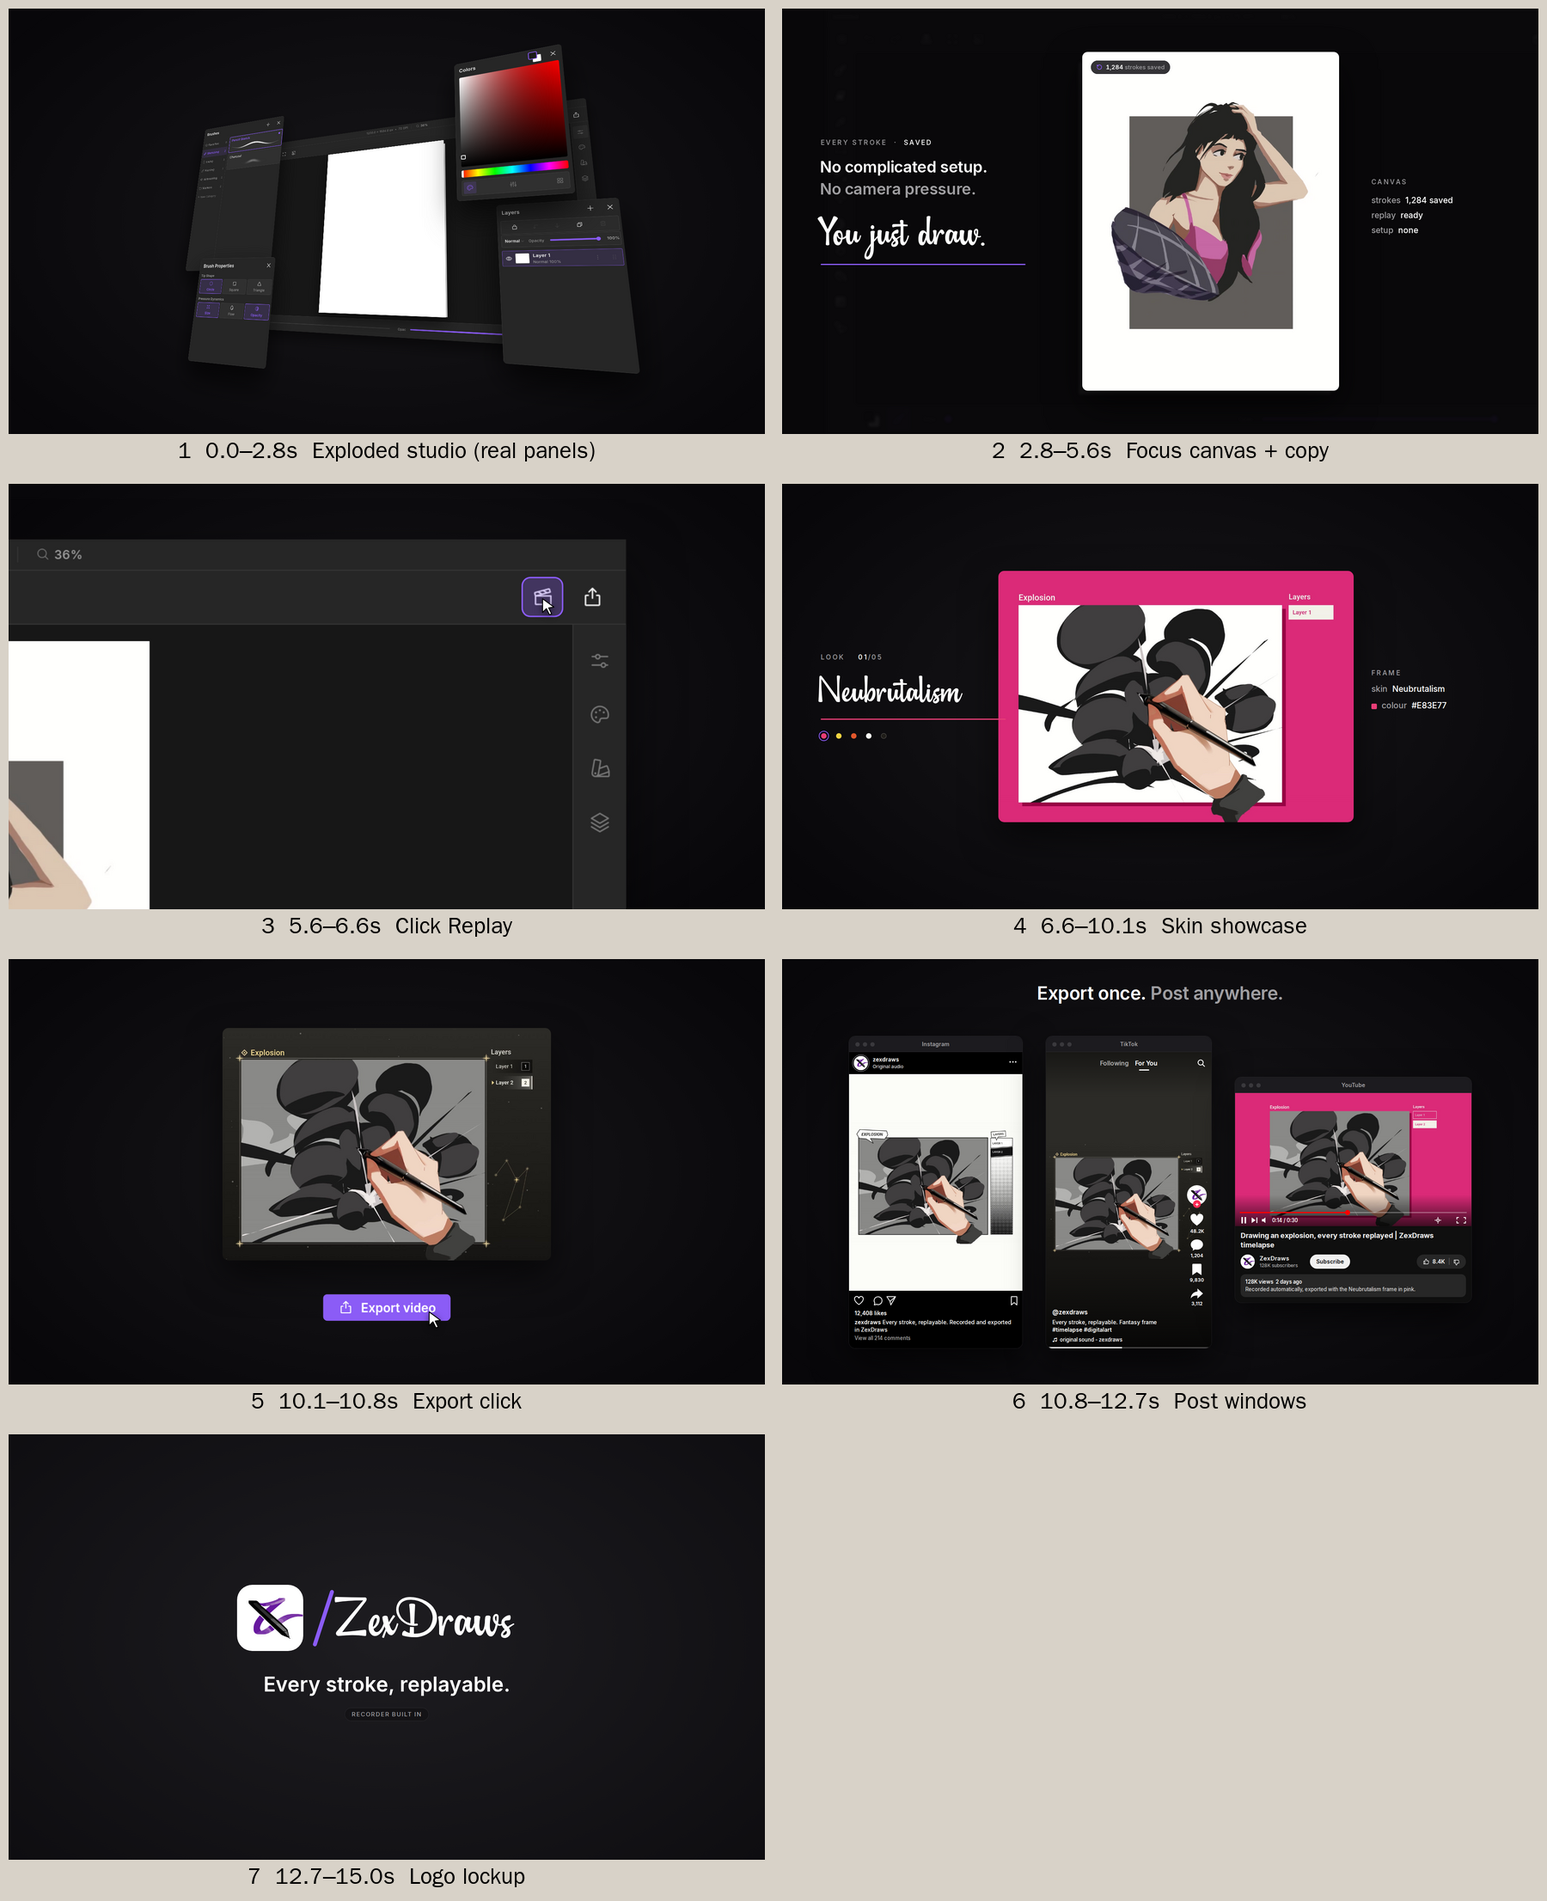
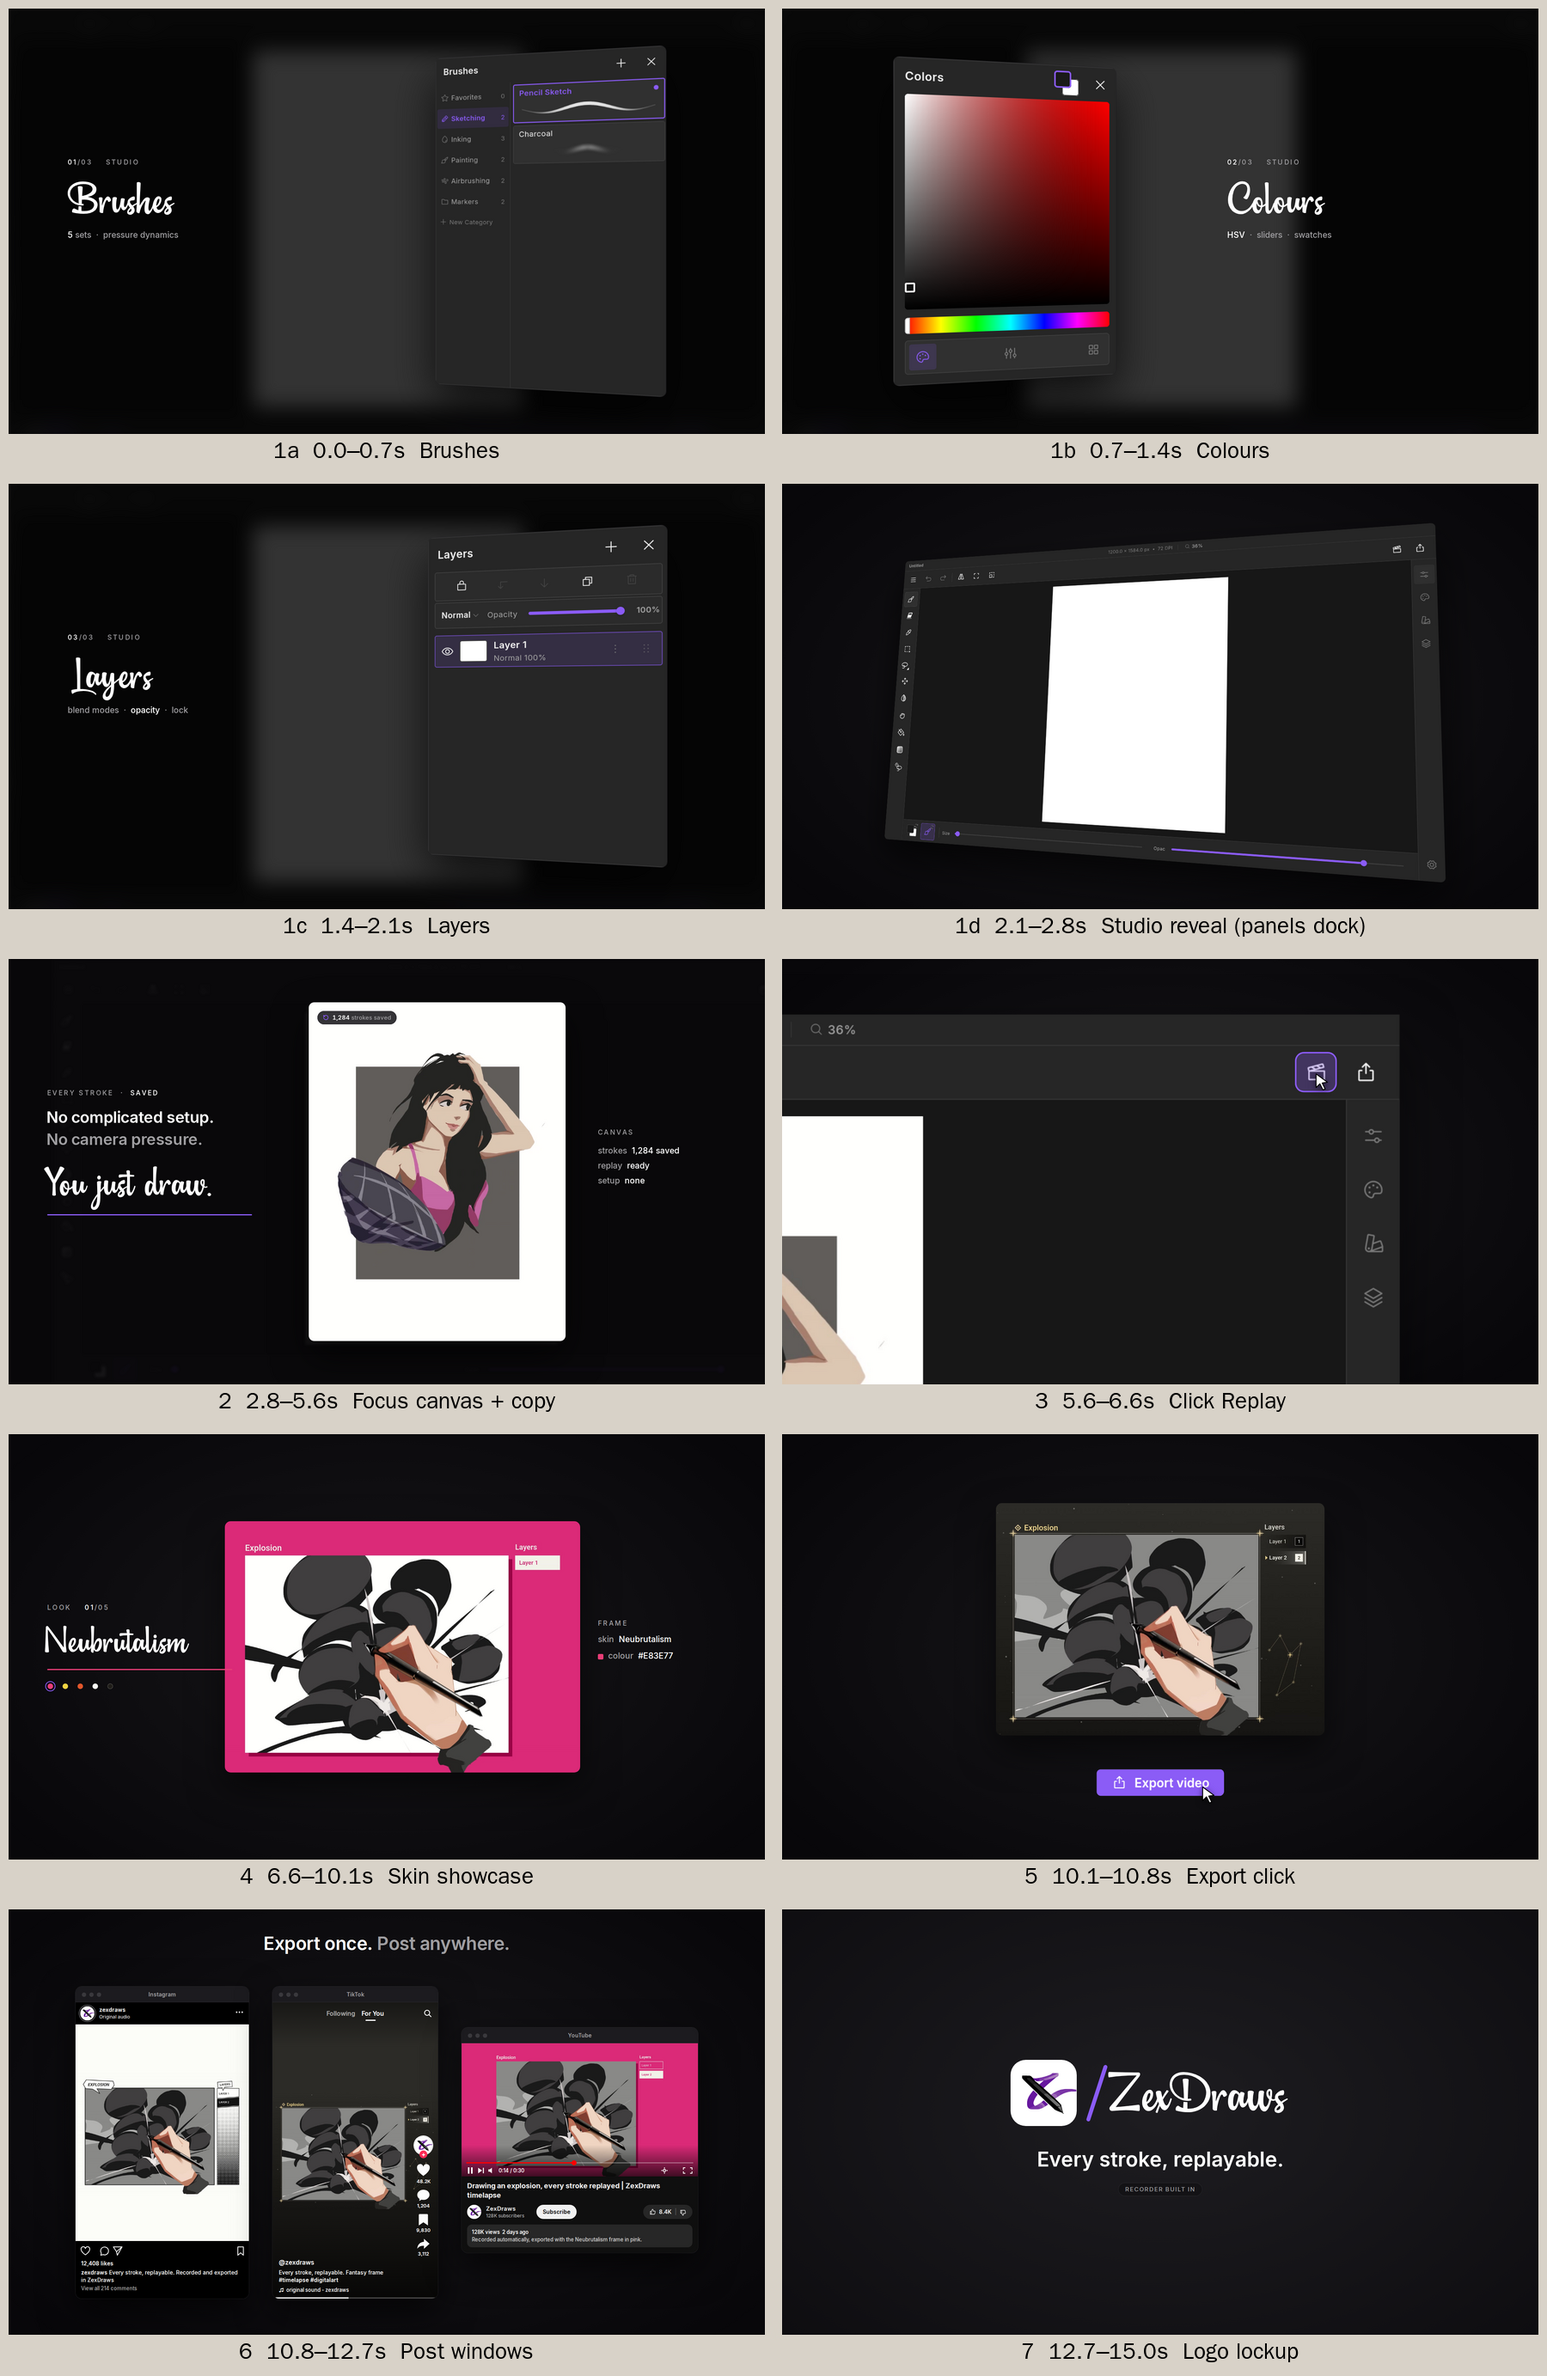
Storyboard: split the opener into Brushes / Colours / Layers cuts and a studio reveal
Claude-Session: https://claude.ai/code/session_01N6SAp883XGMwBKYGBCyKw5

diff --git a/docs/storyboard/storyboard.html b/docs/storyboard/storyboard.html
@@ -34,14 +34,15 @@ html,body { margin:0; background:var(--bg); }
 .P { box-shadow:0 60px 120px rgba(0,0,0,.7) !important; border-radius:12px; }
 </style></head><body>
 
-<!-- 1 · Exploded studio: the real Brushes, Brush Properties, Colors and Layers panels float at their own heights -->
-<div class="frame" id="f1"><div class="cam"><div class="rig" style="transform:translate(-10px,10px) scale(.5) rotateY(-20deg) rotateX(12deg) rotateZ(-3deg)">
-  <img class="L" src="../../ui/studio/clean.png" style="width:1920px;height:1080px;left:-960px;top:-540px;border-radius:14px">
-  <div class="L" style="background:#fff;left:-316px;top:-404px;width:639px;height:843px;transform:translateZ(40px)"></div>
-  <img class="L P" src="../../ui/studio/p_layers.png" style="left:560px;top:-30px;width:444px;height:626px;transform:translateZ(140px)">
-  <img class="L P" src="../../ui/studio/p_brush.png" style="left:-1010px;top:-560px;width:534px;height:804px;transform:translateZ(240px)">
-  <img class="L P" src="../../ui/studio/p_colour.png" style="left:420px;top:-620px;width:414px;height:605px;transform:translateZ(300px)">
-  <img class="L P" src="../../ui/studio/p_adjust.png" style="left:-760px;top:200px;width:414px;height:450px;transform:translateZ(380px)">
+<!-- 1a · Brushes close-up -->
+<div class="frame" id="f1a"><div class="abs" style="inset:-40px;background:url(../../ui/studio/clean.png) center/cover;filter:blur(26px) brightness(.2)"></div><div class="cam"><img class="abs" src="../../ui/studio/p_brush.png" style="left:1080px;top:111px;width:570px;height:858px;border-radius:14px;transform:rotateY(-14deg);box-shadow:0 50px 120px rgba(0,0,0,.7), 0 0 0 1px #2A292D"></div><div class="abs" style="left:150px;top:380px;width:640px;text-align:left"><div class="eyebrow"><b>01</b>/03&nbsp;&nbsp;&nbsp;&nbsp;Studio</div><div style="font:120px/150px 'Southern Beach';margin-top:6px">Brushes</div><div class="row" style="margin-top:6px"><span class="v">5</span> sets&nbsp;&nbsp;·&nbsp;&nbsp;pressure dynamics</div></div></div>
+<!-- 1b · Colors close-up -->
+<div class="frame" id="f1b"><div class="abs" style="inset:-40px;background:url(../../ui/studio/clean.png) center/cover;filter:blur(26px) brightness(.2)"></div><div class="cam"><img class="abs" src="../../ui/studio/p_colour.png" style="left:300px;top:137px;width:552px;height:806px;border-radius:14px;transform:rotateY(14deg);box-shadow:0 50px 120px rgba(0,0,0,.7), 0 0 0 1px #2A292D"></div><div class="abs" style="left:1130px;top:380px;width:640px;text-align:left"><div class="eyebrow"><b>02</b>/03&nbsp;&nbsp;&nbsp;&nbsp;Studio</div><div style="font:120px/150px 'Southern Beach';margin-top:6px">Colours</div><div class="row" style="margin-top:6px"><span class="v">HSV</span>&nbsp;&nbsp;·&nbsp;&nbsp;sliders&nbsp;&nbsp;·&nbsp;&nbsp;swatches</div></div></div>
+<!-- 1c · Layers close-up -->
+<div class="frame" id="f1c"><div class="abs" style="inset:-40px;background:url(../../ui/studio/clean.png) center/cover;filter:blur(26px) brightness(.2)"></div><div class="cam"><img class="abs" src="../../ui/studio/p_layers.png" style="left:1060px;top:122px;width:592px;height:835px;border-radius:14px;transform:rotateY(-14deg);box-shadow:0 50px 120px rgba(0,0,0,.7), 0 0 0 1px #2A292D"></div><div class="abs" style="left:150px;top:380px;width:640px;text-align:left"><div class="eyebrow"><b>03</b>/03&nbsp;&nbsp;&nbsp;&nbsp;Studio</div><div style="font:120px/150px 'Southern Beach';margin-top:6px">Layers</div><div class="row" style="margin-top:6px">blend modes&nbsp;&nbsp;·&nbsp;&nbsp;<span class="v">opacity</span>&nbsp;&nbsp;·&nbsp;&nbsp;lock</div></div></div>
+<!-- 1d · Reveal: the clean studio, upright, blank page -->
+<div class="frame" id="f1d"><div class="cam"><div class="rig" style="transform:translateX(-70px) scale(.74) rotateY(-14deg) rotateX(6deg)">
+  <img class="L" src="../../ui/studio/clean.png" style="width:1920px;height:1080px;left:-960px;top:-540px;border-radius:14px;box-shadow:0 60px 140px rgba(0,0,0,.7)">
 </div></div></div>
 
 <!-- 2 · Focus on the canvas: same frame language as the skin showcase (eyebrow → statement → script → tokens) -->

diff --git a/docs/shotlist-studio.md b/docs/shotlist-studio.md
@@ -7,7 +7,10 @@ Ends on the lockup (no loop back, no infinite card floor).
 
 | # | Beats | Time | Shot | Motion | Sound |
 |---|---|---|---|---|---|
-| 1 | 0–6 | 0.0–2.8 | **Exploded studio.** The real studio stands near-upright, angled about 20° to the side (not lying flat), with a blank white page. In front of it float the real **Brushes, Brush Properties, Colors and Layers** panels (captured from the app), each at its own height and spread over the workspace. | Opens already exploded. On beats 1–4 each panel drops and folds into its button on the right rail, one per beat. The camera levels out on beat 5. | Low hit at 0, a click per panel, swish on the untilt |
+| 1a | 0–1.5 | 0.0–0.7 | **Brushes.** The real Brushes panel, large and turned slightly, over the blurred studio. Left: "01/03 Studio" → *Brushes* (script) → "5 sets · pressure dynamics". | The panel swings in. The Pencil Sketch highlight lands on the beat. | Low hit at 0, click |
+| 1b | 1.5–3 | 0.7–1.4 | **Colours.** The Colors panel on the left, the label on the right (mirrored layout). "02/03" → *Colours* → "HSV · sliders · swatches". | Hard cut on the beat. The picker dot slides across the field. | Click |
+| 1c | 3–4.5 | 1.4–2.1 | **Layers.** The Layers panel on the right, the label on the left. "03/03" → *Layers* → "blend modes · opacity · lock". | Cut. The opacity slider fills. | Click |
+| 1d | 4.5–6 | 2.1–2.8 | **Studio reveal.** The clean studio stands near-upright, turned slightly, with a blank white page. | The panel shrinks into its button on the right rail as the camera pulls back to the full studio, then pushes toward the page. | Swish |
 | 2 | 6–12 | 2.8–5.6 | **Focus on the canvas**, laid out like the skin showcase. The page is a framed card with a "↺ 1,284 strokes saved" chip (the count ticks up), playing the Canvas_drawing video. No recording language. Left block: eyebrow "Every stroke · saved" → "No complicated setup." (white) → "No camera pressure." (grey) → *You just draw.* (script) → accent underline. Right block: Canvas tokens (strokes 1,284 saved / replay ready / setup none). The studio behind is darkened and blurred. | Push-in. Each line rolls up from a mask on 6.5, 8 and 9.5. The token digits count up. | Whoosh in, tick per line, groove starts |
 | 3 | 12–14 | 5.6–6.6 | **Replay.** Copy lifts out. Camera pans to the top-right toolbar. Cursor glides to the clapper (Replay) button and clicks: purple pressed state. | Camera pan, cursor travel, button press dip | Swish, click on 13, drums drop for that beat |
 | 4 | 14–21.5 | 6.6–10.1 | **Skin showcase** (the switcher you liked). The page lifts off the studio and morphs into the replay box while the studio falls away. Left: Look 01/05, frame name, colour dots and ring. Right: skin and colour tokens. | Same as the previous film: Pink, Yellow, Orange, Manga, Fantasy, switching every 1.5 beats | Boom on 14, click per switch |
@@ -18,6 +21,6 @@ Ends on the lockup (no loop back, no infinite card floor).
 ## Notes / open choices
 - The post windows copy each platform's real layout and use the platform name as text. They use no platform
   logo marks, and the counts, captions and channel are made up for ZexDraws. Say if you'd rather they be generic.
-- The panels in shot 1 were re-captured from the Linux build: Brushes, Brush Properties, Colors and Layers.
+- The opener is three single-panel cuts plus a reveal, instead of one busy exploded view. The panels were re-captured from the Linux build.
 - Canvas_drawing is nearly finished from its first frame. Shot 2 shows the last ~3 s of colouring, not a
   drawing from blank. A clip that starts from a sketch would sell "you just draw" better.
